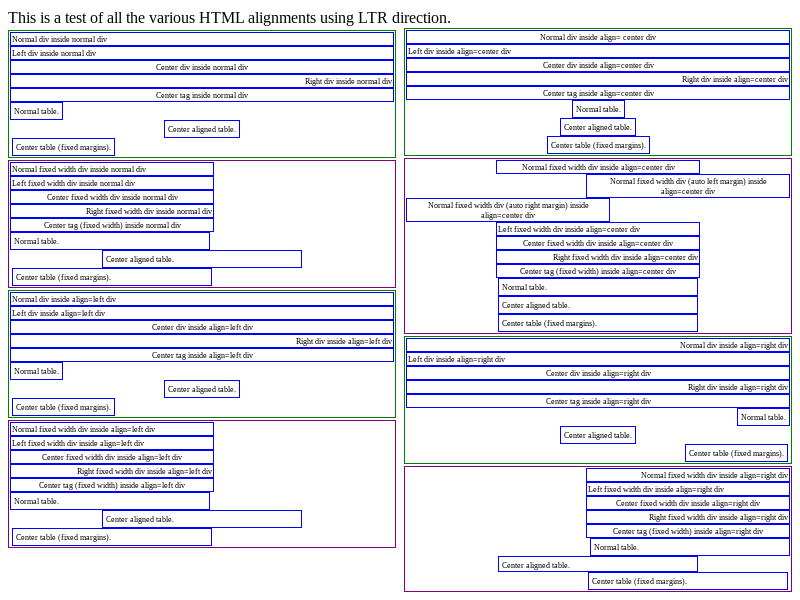
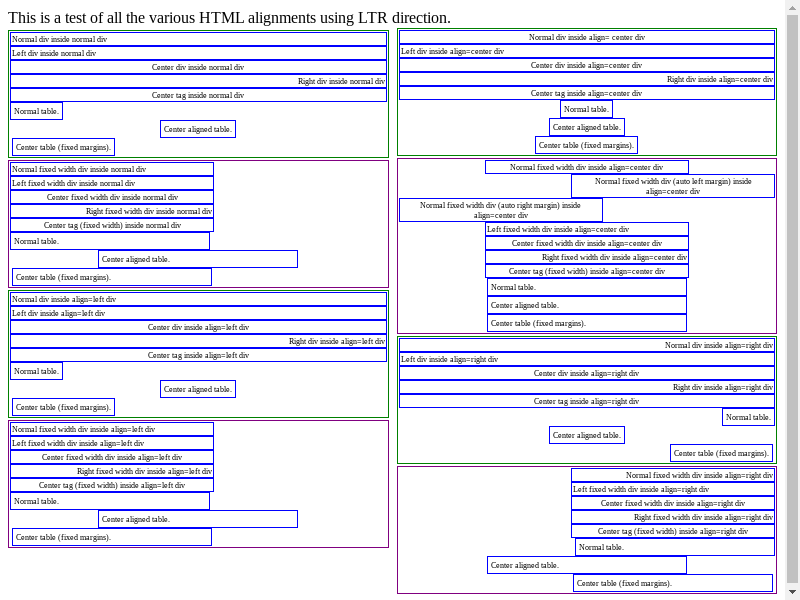
Miss the cache when truncated by the fragmentation line.
If a fragment got truncated by the fragmentation line, and the
fragmentation line has moved (relatively to the fragment), we cannot
re-use it.

Fragments may get truncated if there's trailing margin or
border-spacing.

Also need to rebaseline fast/block/basic/align-attribute-ltr.html
which got incorrectly rebaselined in CL:3829558 (must have drowned in
all the other rebaseline noise there), and this is what allowed the
border-spacing part of the issue to enter our codebase "unnoticed".
The margin part is an old bug, though.

Bug: 1368054
Commit-Queue: Morten Stenshorne <mstensho@chromium.org>
Cr-Commit-Position: refs/heads/main@{#1051968}

diff --git a/web_tests/external/wpt/css/css-break/truncated-margin-at-fragmentainer-end-002.html b/web_tests/external/wpt/css/css-break/truncated-margin-at-fragmentainer-end-002.html
@@ -1,0 +1,15 @@
+<!DOCTYPE html>
+<link rel="author" title="Morten Stenshorne" href="mailto:mstensho@chromium.org">
+<link rel="help" href="https://bugs.chromium.org/p/chromium/issues/detail?id=1368054">
+<link rel="match" href="../reference/ref-filled-green-100px-square.xht">
+<p>Test passes if there is a filled green square and <strong>no red</strong>.</p>
+<div style="columns:1; column-fill:auto; width:100px; height:100px; background:red;">
+  <div id="child" style="height:40px;"></div>
+  <div style="display:flow-root; background:green;">
+    <div style="margin-bottom:40px; height:60px;"></div>
+  </div>
+</div>
+<script>
+  document.body.offsetTop;
+  child.style.height = "0";
+</script>

diff --git a/web_tests/external/wpt/css/css-break/table/truncated-border-spacing-at-fragmentainer-end.html b/web_tests/external/wpt/css/css-break/table/truncated-border-spacing-at-fragmentainer-end.html
@@ -1,0 +1,14 @@
+<!DOCTYPE html>
+<link rel="author" title="Morten Stenshorne" href="mailto:mstensho@chromium.org">
+<link rel="help" href="https://bugs.chromium.org/p/chromium/issues/detail?id=1368054">
+<link rel="match" href="../../reference/ref-filled-green-100px-square.xht">
+<p>Test passes if there is a filled green square and <strong>no red</strong>.</p>
+<div id="mc" style="columns:1; column-fill:auto; width:100px; height:60px; background:red;">
+  <div style="display:table; width:100%; border-spacing:40px; background:green;">
+    <div style="height:20px;"></div>
+  </div>
+</div>
+<script>
+  document.body.offsetTop;
+  mc.style.height = "100px";
+</script>

diff --git a/web_tests/external/wpt/css/css-break/truncated-margin-at-fragmentainer-end-001.html b/web_tests/external/wpt/css/css-break/truncated-margin-at-fragmentainer-end-001.html
@@ -1,0 +1,14 @@
+<!DOCTYPE html>
+<link rel="author" title="Morten Stenshorne" href="mailto:mstensho@chromium.org">
+<link rel="help" href="https://bugs.chromium.org/p/chromium/issues/detail?id=1368054">
+<link rel="match" href="../reference/ref-filled-green-100px-square.xht">
+<p>Test passes if there is a filled green square and <strong>no red</strong>.</p>
+<div id="mc" style="columns:1; column-fill:auto; width:100px; height:60px; background:red;">
+  <div style="display:flow-root; background:green;">
+    <div style="margin-bottom:40px; height:60px;"></div>
+  </div>
+</div>
+<script>
+  document.body.offsetTop;
+  mc.style.height = "100px";
+</script>

diff --git a/renderer/core/layout/ng/ng_layout_result.h b/renderer/core/layout/ng/ng_layout_result.h
@@ -440,6 +440,13 @@ class CORE_EXPORT NGLayoutResult final
     return bitfields_.disable_simplified_layout;
   }
 
+  // Returns true if the fragment got truncated because it reached the
+  // fragmentation line. This typically means that we cannot re-use (cache-hit)
+  // this fragment if the fragmentation line moves.
+  bool IsTruncatedByFragmentationLine() const {
+    return bitfields_.is_truncated_by_fragmentation_line;
+  }
+
   // Returns the space which generated this object for caching purposes.
   const NGConstraintSpace& GetConstraintSpaceForCaching() const {
     return space_;
@@ -879,7 +886,8 @@ class CORE_EXPORT NGLayoutResult final
           initial_break_before(static_cast<unsigned>(EBreakBetween::kAuto)),
           final_break_after(static_cast<unsigned>(EBreakBetween::kAuto)),
           status(static_cast<unsigned>(kSuccess)),
-          disable_simplified_layout(false) {}
+          disable_simplified_layout(false),
+          is_truncated_by_fragmentation_line(false) {}
 
     unsigned has_rare_data_exclusion_space : 1;
     unsigned has_oof_positioned_offset : 1;
@@ -906,6 +914,7 @@ class CORE_EXPORT NGLayoutResult final
 
     unsigned status : 3;  // EStatus
     unsigned disable_simplified_layout : 1;
+    unsigned is_truncated_by_fragmentation_line : 1;
   };
 
   // The constraint space which generated this layout result.

diff --git a/renderer/core/layout/ng/table/ng_table_layout_algorithm.cc b/renderer/core/layout/ng/table/ng_table_layout_algorithm.cc
@@ -1399,12 +1399,18 @@ const NGLayoutResult* NGTableLayoutAlgorithm::GenerateFragment(
       border_spacing_after_last_section = LayoutUnit();
     } else if (ConstraintSpace().HasKnownFragmentainerBlockSize()) {
       // Truncate trailing border-spacing to fit within the fragmentainer.
-      border_spacing_after_last_section =
+      LayoutUnit new_border_spacing_after_last_section =
           std::min(border_spacing_after_last_section,
                    fragmentainer_space_at_start - child_block_offset -
                        border_padding.block_end);
-      border_spacing_after_last_section =
-          border_spacing_after_last_section.ClampNegativeToZero();
+      new_border_spacing_after_last_section =
+          new_border_spacing_after_last_section.ClampNegativeToZero();
+      if (border_spacing_after_last_section !=
+          new_border_spacing_after_last_section) {
+        container_builder_.SetIsTruncatedByFragmentationLine();
+        border_spacing_after_last_section =
+            new_border_spacing_after_last_section;
+      }
     }
 
     if (!has_ended_table_box_layout) {

diff --git a/renderer/core/layout/ng/ng_box_fragment_builder.h b/renderer/core/layout/ng/ng_box_fragment_builder.h
@@ -460,6 +460,10 @@ class CORE_EXPORT NGBoxFragmentBuilder final
 
   void SetDisableSimplifiedLayout() { disable_simplified_layout = true; }
 
+  void SetIsTruncatedByFragmentationLine() {
+    is_truncated_by_fragmentation_line = true;
+  }
+
   // See |NGPhysicalBoxFragment::InflowBounds|.
   void SetInflowBounds(const LogicalRect& inflow_bounds) {
     DCHECK_NE(box_type_, NGPhysicalBoxFragment::NGBoxType::kInlineBox);
@@ -768,6 +772,7 @@ class CORE_EXPORT NGBoxFragmentBuilder final
   bool is_at_block_end_ = false;
   bool disable_oof_descendants_propagation_ = false;
   bool disable_simplified_layout = false;
+  bool is_truncated_by_fragmentation_line = false;
   bool use_last_baseline_for_inline_baseline_ = false;
   LayoutUnit block_offset_for_additional_columns_;
 

diff --git a/renderer/core/layout/ng/ng_block_layout_algorithm.cc b/renderer/core/layout/ng/ng_block_layout_algorithm.cc
@@ -882,8 +882,12 @@ const NGLayoutResult* NGBlockLayoutAlgorithm::FinishLayout(
         LayoutUnit bfc_block_offset =
             *container_builder_.BfcBlockOffset() +
             previous_inflow_position->logical_block_offset;
-        margin_strut_sum = AdjustedMarginAfterFinalChildFragment(
+        LayoutUnit new_margin_strut_sum = AdjustedMarginAfterFinalChildFragment(
             ConstraintSpace(), bfc_block_offset, margin_strut_sum);
+        if (new_margin_strut_sum != margin_strut_sum) {
+          container_builder_.SetIsTruncatedByFragmentationLine();
+          margin_strut_sum = new_margin_strut_sum;
+        }
       }
 
       // The trailing margin strut will be part of our intrinsic block size, but

diff --git a/renderer/core/layout/layout_box_hot.cc b/renderer/core/layout/layout_box_hot.cc
@@ -343,6 +343,12 @@ const NGLayoutResult* LayoutBox::CachedLayoutResult(
         if (cached_layout_result->IsBlockSizeForFragmentationClamped())
           return nullptr;
 
+        // If the fragment was truncated at the fragmentation line, and since we
+        // have now moved relatively to the fragmentation line, we cannot re-use
+        // the fragment.
+        if (cached_layout_result->IsTruncatedByFragmentationLine())
+          return nullptr;
+
         // TODO(layout-dev): This likely shouldn't be scoped to just OOFs, but
         // scoping it more widely results in several perf regressions[1].
         //

diff --git a/renderer/core/layout/ng/ng_layout_result.cc b/renderer/core/layout/ng/ng_layout_result.cc
@@ -97,6 +97,8 @@ NGLayoutResult::NGLayoutResult(NGBoxFragmentBuilderPassKey passkey,
     bitfields_.has_forced_break = builder->has_forced_break_;
   }
   bitfields_.disable_simplified_layout = builder->disable_simplified_layout;
+  bitfields_.is_truncated_by_fragmentation_line =
+      builder->is_truncated_by_fragmentation_line;
 
   if (builder->ConstraintSpace().ShouldPropagateChildBreakValues() &&
       !builder->layout_object_->ShouldApplyLayoutContainment()) {
